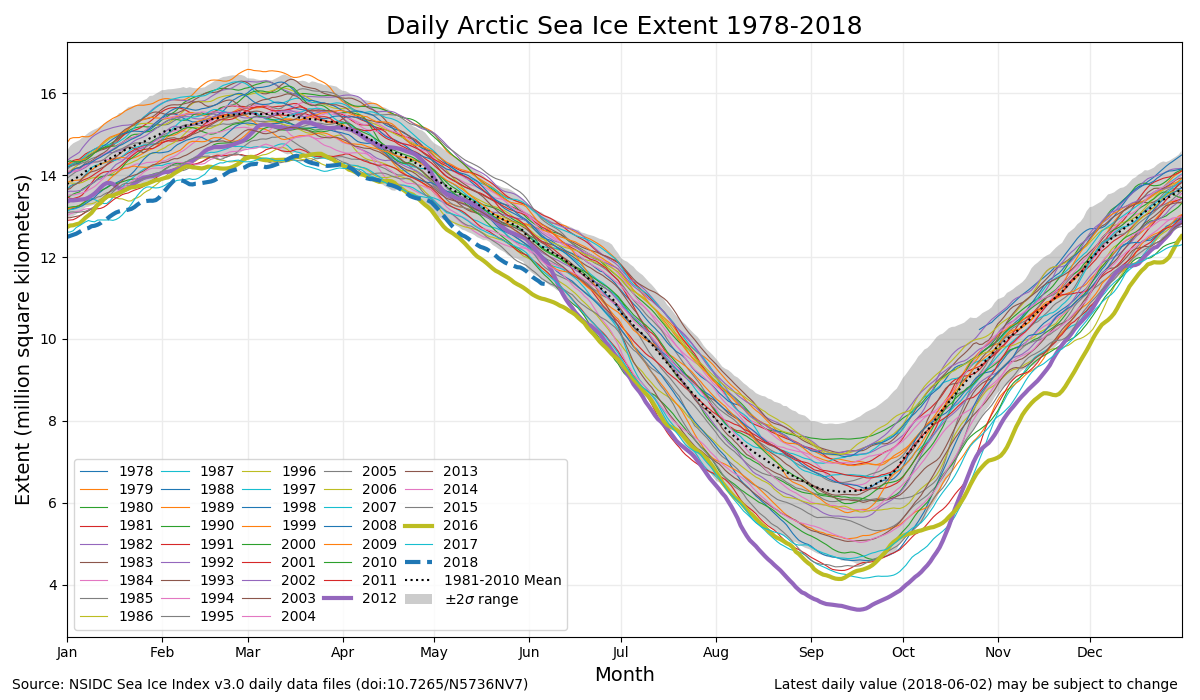
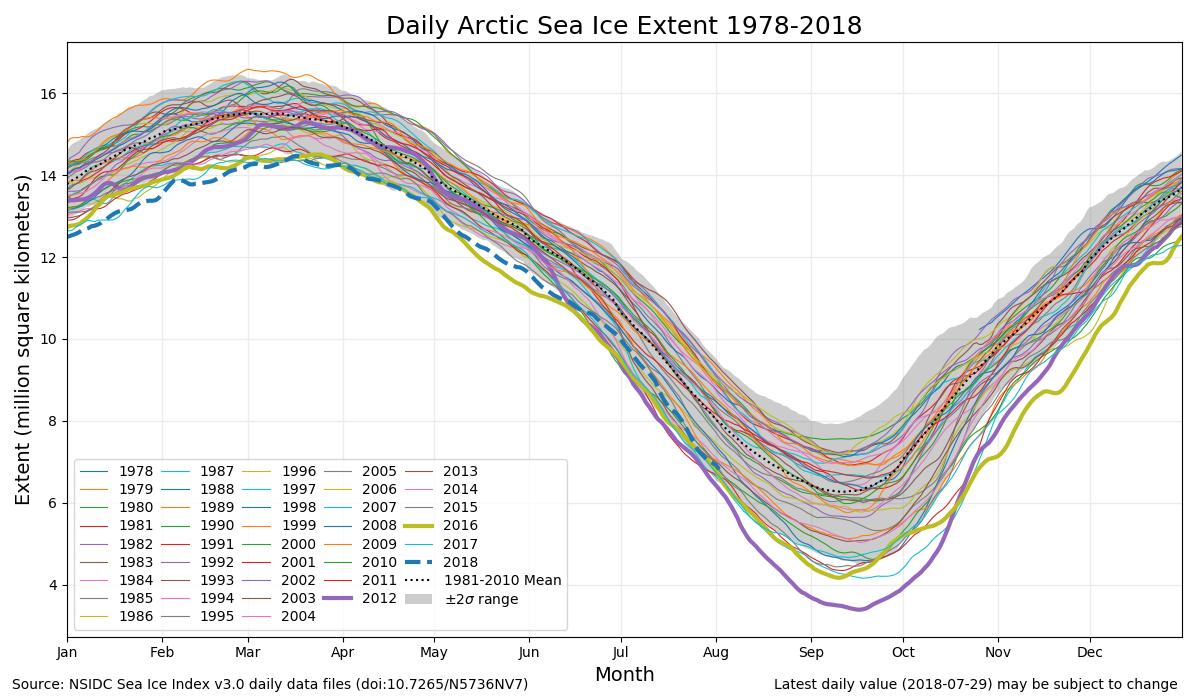
Update plots for June

diff --git a/nsidc-tools/IceAgePlotter.py b/nsidc-tools/IceAgePlotter.py
@@ -150,13 +150,13 @@ def download_bin_data(download_dir):
         return
 
 
-def plot_stacked_fill(week=35, bounds=[65.0, 90.0, -180.0, 180.0], start_year=1984, end_year=2018, data_dir='./data/'+AGE_CONST):
+def plot_stacked_fill(week, bounds, start_year=1984, end_year=2018, data_dir='./data/'+AGE_CONST):
     '''
     Load binary sea ice datasets into memory, and plot the stacked fill charts
     for the selected year range and geographic boundaries
     -------------------------------
-    `week` (int): the week number to plot with. `Default 35`
-    `bounds` (list): 4-element list of floats [minLat, maxLat, minLon, maxLon]. `Default [65.0, 90.0, -180.0, 180.0]`
+    `week` (int): the week number to plot with. 
+    `bounds` (list): 4-element list of floats [minLat, maxLat, minLon, maxLon].
     `start_year` (int): year to start the plot. `Default 1984`
     `end_year` (int): year to end the plot. `Default 2018`
     `data_dir` (str): path to where source binary data is kept. `Default ./data/nsidc0611_seaice_age_v3`
@@ -367,7 +367,7 @@ def main(cfg):
 
 
 if __name__ == "__main__":
-    os.chdir(os.path.dirname(os.path.dirname(__file__)))
+    os.chdir(os.path.dirname(os.path.dirname(os.path.abspath(__file__))))
     # python nsidc-tools/MonthlyIceIndexPlotter.py config.cfg
     if len(sys.argv) == 2:
         CFG_FILE = sys.argv[1]

diff --git a/nsidc-tools/DailyIceIndexPlotter.py b/nsidc-tools/DailyIceIndexPlotter.py
@@ -248,7 +248,7 @@ def main(cfg):
     #TODO: Produce console printouts of daily decline trends, etc.
 
 if __name__ == "__main__":
-    os.chdir(os.path.dirname(os.path.dirname(__file__)))
+    os.chdir(os.path.dirname(os.path.dirname(os.path.abspath(__file__))))
     # python DailyIceIndexPlotter.py config.cfg
     if len(sys.argv) == 2:
         CFGFILE = sys.argv[1]

diff --git a/nsidc-tools/MonthlyIceIndexPlotter.py b/nsidc-tools/MonthlyIceIndexPlotter.py
@@ -275,7 +275,7 @@ def main(cfg):
 
 
 if __name__ == "__main__":
-    os.chdir(os.path.dirname(os.path.dirname(__file__)))
+    os.chdir(os.path.dirname(os.path.dirname(os.path.abspath(__file__))))
     # python MonthlyIceIndexPlotter.py config.cfg
     if len(sys.argv) == 2:
         CFGFILE = sys.argv[1]
